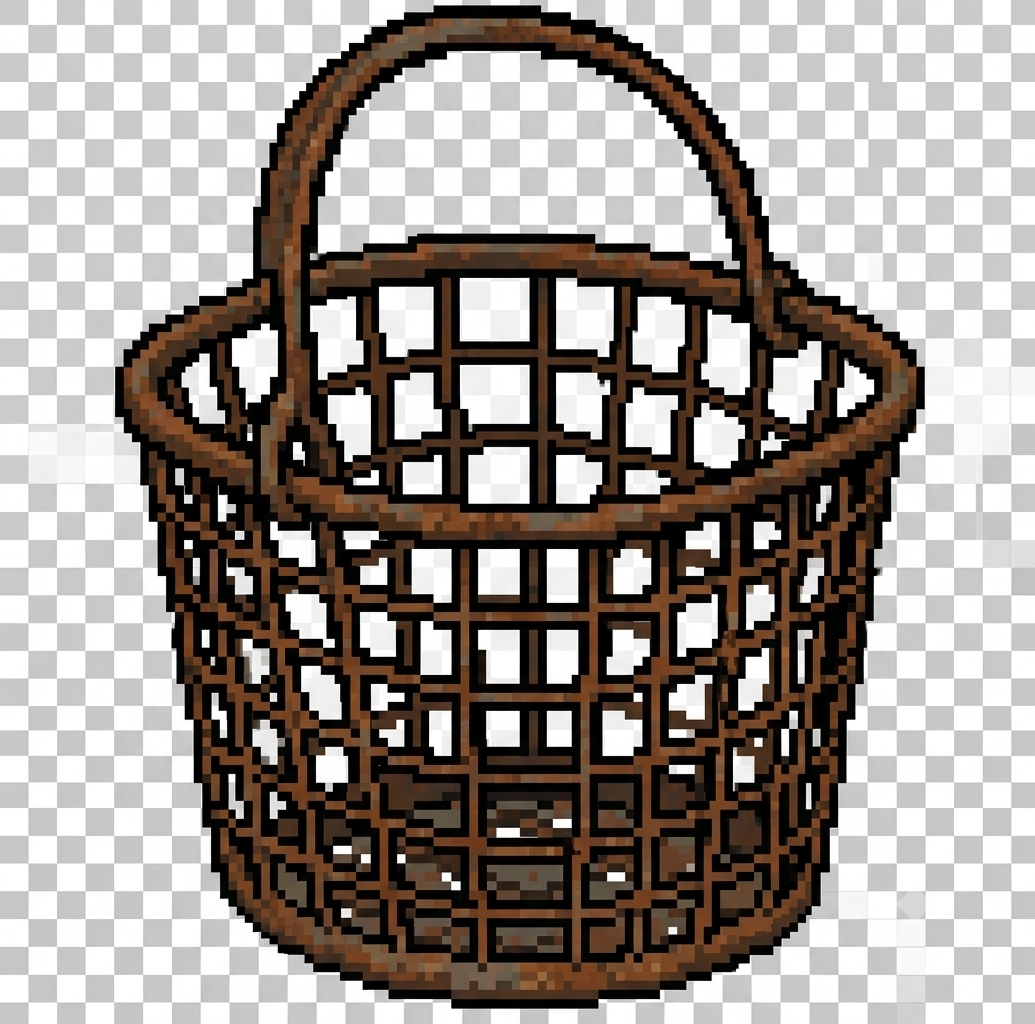
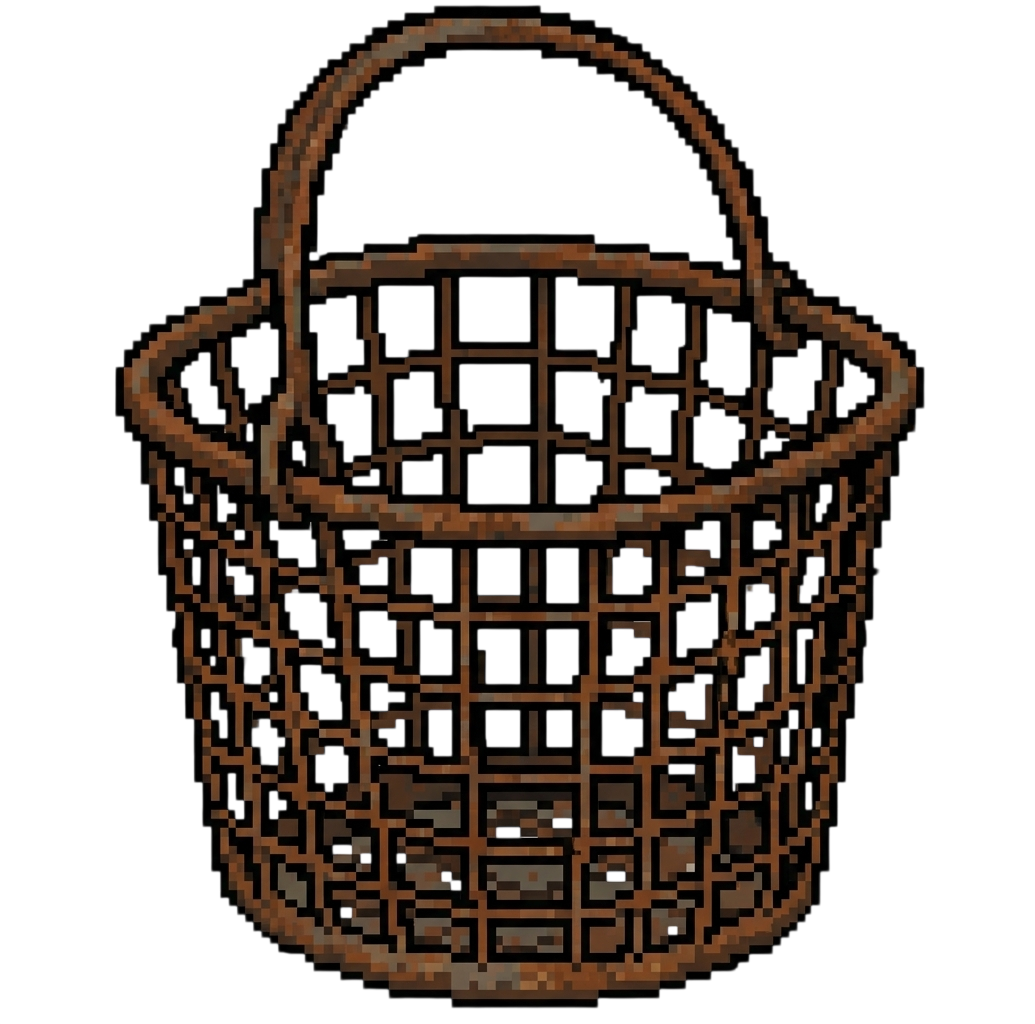
feat: 3 latas

diff --git a/minigames/cucaracha.py b/minigames/cucaracha.py
@@ -1,0 +1,205 @@
+import math
+import random
+import pyray as pr
+
+
+class CucarachaMiniGame:
+    WIN_COUNT      = 3
+    LIVES          = 2
+    BASE_W, BASE_H = 1392, 768
+    SLOTS          = [(473, 387), (695, 385), (920, 385)]
+    HIT_RADIUS     = 65
+    CAN_W, CAN_H   = 150, 157
+    CUCA_W, CUCA_H = 95, 110
+    FX_W, FX_H     = 120, 117
+    REVEAL_TIME    = 1.5
+    RESULT_TIME    = 1.5
+    SWAP_DUR       = 0.22
+    LIFT           = 70    # px levantar lata al revelar
+    ARC_LIFT       = 50    # px arco durante swap
+
+    def __init__(self, textures: dict) -> None:
+        self._tex   = textures
+        self._found = 0
+        self._lives = self.LIVES
+        self._round = 0
+        self._won   = False
+        self._done  = False
+        self._start_round()
+
+    # ------------------------------------------------------------------ helpers
+
+    def _start_round(self) -> None:
+        self._can_slot     = [0, 1, 2]            # can i ocupa slot can_slot[i]
+        self._cuca_can     = random.randint(0, 2)
+        self._cuca_variant = random.randint(0, 2)
+        self._phase        = "reveal"
+        self._timer        = 0.0
+        # cola de swaps pendientes: (can_a, can_b)
+        self._swaps        = self._build_swaps()
+        self._swap_t       = 0.0
+        self._swap_from    = None   # (slot_a, slot_b) origen de la animación
+        self._guess_slot   = None   # slot clickeado en result
+        self._guess_ok     = False
+
+    def _build_swaps(self) -> list:
+        n = 6 + self._round * 3
+        swaps = []
+        for _ in range(n):
+            a, b = random.sample((0, 1, 2), 2)
+            swaps.append((a, b))
+        return swaps
+
+    def _slot_px(self, slot: int, sw: int, sh: int) -> tuple:
+        cx, cy = self.SLOTS[slot]
+        return cx / self.BASE_W * sw, cy / self.BASE_H * sh
+
+    def _can_pos(self, can: int, sw: int, sh: int) -> tuple:
+        """Posición pixel (cx, cy) de la lata, interpolada si está en swap."""
+        slot = self._can_slot[can]
+        x, y = self._slot_px(slot, sw, sh)
+        if self._phase == "shuffle" and self._swap_from is not None:
+            ca, cb = self._swaps[0]
+            if can in (ca, cb):
+                t = min(1.0, self._swap_t / self.SWAP_DUR)
+                fa, fb = self._swap_from
+                src = fa if can == ca else fb
+                dst = fb if can == ca else fa
+                sx, sy = self._slot_px(src, sw, sh)
+                dx, dy = self._slot_px(dst, sw, sh)
+                x = sx + (dx - sx) * t
+                y = sy + (dy - sy) * t - math.sin(t * math.pi) * self.ARC_LIFT * sh / self.BASE_H
+        return x, y
+
+    def _blit(self, tex, cx, cy, w, h, sw, sh) -> None:
+        rw = w * sw / self.BASE_W
+        rh = h * sh / self.BASE_H
+        pr.draw_texture_pro(
+            tex,
+            pr.Rectangle(0, 0, tex.width, tex.height),
+            pr.Rectangle(cx - rw / 2, cy - rh / 2, rw, rh),
+            pr.Vector2(0, 0), 0.0, pr.WHITE,
+        )
+
+    # ------------------------------------------------------------------ protocol
+
+    def update(self, dt: float) -> None:
+        if self._done:
+            return
+        self._timer += dt
+
+        if self._phase == "reveal":
+            if self._timer >= self.REVEAL_TIME:
+                self._phase  = "shuffle"
+                self._timer  = 0.0
+                self._begin_next_swap()
+
+        elif self._phase == "shuffle":
+            self._swap_t += dt
+            if self._swap_t >= self.SWAP_DUR:
+                ca, cb = self._swaps.pop(0)
+                self._can_slot[ca], self._can_slot[cb] = self._can_slot[cb], self._can_slot[ca]
+                if self._swaps:
+                    self._begin_next_swap()
+                else:
+                    self._phase = "guess"
+                    self._timer = 0.0
+
+        elif self._phase == "guess":
+            if pr.is_mouse_button_pressed(pr.MOUSE_BUTTON_LEFT):
+                mp = pr.get_mouse_position()
+                sw, sh = pr.get_screen_width(), pr.get_screen_height()
+                slot = self._slot_at(mp, sw, sh)
+                if slot is not None:
+                    self._resolve_guess(slot)
+
+        elif self._phase == "result":
+            if self._timer >= self.RESULT_TIME:
+                if self._found >= self.WIN_COUNT:
+                    self._won, self._done = True, True
+                elif self._lives <= 0:
+                    self._won, self._done = False, True
+                else:
+                    self._round += 1
+                    self._start_round()
+
+    def _begin_next_swap(self) -> None:
+        self._swap_t    = 0.0
+        ca, cb          = self._swaps[0]
+        self._swap_from = (self._can_slot[ca], self._can_slot[cb])
+
+    def _slot_at(self, mp, sw: int, sh: int):
+        r = self.HIT_RADIUS * sw / self.BASE_W
+        for slot in range(3):
+            sx, sy = self._slot_px(slot, sw, sh)
+            if (mp.x - sx) ** 2 + (mp.y - sy) ** 2 <= r * r:
+                return slot
+        return None
+
+    def _resolve_guess(self, slot: int) -> None:
+        cuca_slot = self._can_slot[self._cuca_can]
+        self._guess_slot = slot
+        self._guess_ok   = (slot == cuca_slot)
+        if self._guess_ok:
+            self._found += 1
+        else:
+            self._lives -= 1
+        self._phase = "result"
+        self._timer = 0.0
+
+    def draw(self, sw: int, sh: int) -> None:
+        bg = self._tex["escenario"]
+        pr.draw_texture_pro(
+            bg,
+            pr.Rectangle(0, 0, bg.width, bg.height),
+            pr.Rectangle(0, 0, sw, sh),
+            pr.Vector2(0, 0), 0.0, pr.WHITE,
+        )
+
+        cuca_slot = self._can_slot[self._cuca_can]
+
+        # en reveal y result siempre se levanta la lata de la cucaracha
+        # (en result revela donde estaba; si ademas fallo, X sobre la clickeada)
+        lifted_slot = cuca_slot if self._phase in ("reveal", "result") else None
+
+        # dibujar cucaracha primero (debajo de las latas)
+        if self._phase in ("reveal", "result"):
+            cx, cy = self._slot_px(cuca_slot, sw, sh)
+            cuca_tex = self._tex["cucarachas"][self._cuca_variant]
+            self._blit(cuca_tex, cx, cy + 10 * sh / self.BASE_H,
+                       self.CUCA_W, self.CUCA_H, sw, sh)
+
+        # latas (orden por slot para z razonable)
+        cans = sorted(range(3), key=lambda c: self._can_slot[c])
+        moving = self._phase == "shuffle"
+        for can in cans:
+            cx, cy = self._can_pos(can, sw, sh)
+            slot   = self._can_slot[can]
+            lift   = 0.0
+            if lifted_slot is not None and slot == lifted_slot:
+                lift = self.LIFT * sh / self.BASE_H
+            tex = self._tex["lata_mov"] if moving else self._tex["lata"]
+            self._blit(tex, cx, cy - lift, self.CAN_W, self.CAN_H, sw, sh)
+
+        # feedback acierto/fallo en result
+        if self._phase == "result" and self._guess_slot is not None:
+            gx, gy = self._slot_px(self._guess_slot, sw, sh)
+            fx_tex = self._tex["destello"] if self._guess_ok else self._tex["x"]
+            self._blit(fx_tex, gx, gy - self.LIFT * sh / self.BASE_H,
+                       self.FX_W, self.FX_H, sw, sh)
+
+        # hud
+        hud = f"Cucarachas {self._found}/{self.WIN_COUNT}    Vidas: {self._lives}"
+        pr.draw_text(hud, (sw - pr.measure_text(hud, 26)) // 2, 16, 26, pr.RAYWHITE)
+
+        if self._phase == "guess":
+            hint = "Cual lata esconde la cucaracha? Click!"
+            pr.draw_text(hint, (sw - pr.measure_text(hint, 22)) // 2, 52, 22, pr.GOLD)
+
+    @property
+    def is_complete(self) -> bool:
+        return self._done
+
+    @property
+    def passed(self) -> bool:
+        return self._won

diff --git a/main.py b/main.py
@@ -5,7 +5,7 @@ from state import GameState, GamePhase
 from graph import NODES, EDGES, dijkstra, get_adjacent
 from renderer.graph_renderer import draw_graph
 from renderer.ui_renderer    import draw_menu, draw_win_screen, draw_hud, draw_casa_screen, draw_selector_screen
-from minigames                import get_random_minigame, get_minigame_by_name, set_maze_assets, set_basura_assets, set_memoria_assets, set_recolector_assets
+from minigames                import get_random_minigame, get_minigame_by_name, set_maze_assets, set_basura_assets, set_memoria_assets, set_recolector_assets, set_cucaracha_assets
 
 
 def _new_round(state: GameState) -> None:
@@ -99,6 +99,17 @@ def main() -> None:
         "valioso":   [pr.load_texture(f"{_rbase}valioso_{i}.png") for i in range(1, 4)],
     }
     set_recolector_assets(recolector_textures)
+
+    _cbase = "images/minigame_cucaracha/"
+    cucaracha_textures = {
+        "escenario":  pr.load_texture(f"{_cbase}escenario.png"),
+        "lata":       pr.load_texture(f"{_cbase}lata.png"),
+        "lata_mov":   pr.load_texture(f"{_cbase}lata_moviendose.png"),
+        "cucarachas": [pr.load_texture(f"{_cbase}cucaracha_{i}.png") for i in (1, 2, 3)],
+        "destello":   pr.load_texture(f"{_cbase}destello.png"),
+        "x":          pr.load_texture(f"{_cbase}X.png"),
+    }
+    set_cucaracha_assets(cucaracha_textures)
 
     state = GameState()
 
@@ -216,6 +227,13 @@ def main() -> None:
         pr.unload_texture(tex)
     for tex in recolector_textures["valioso"]:
         pr.unload_texture(tex)
+    pr.unload_texture(cucaracha_textures["escenario"])
+    pr.unload_texture(cucaracha_textures["lata"])
+    pr.unload_texture(cucaracha_textures["lata_mov"])
+    for tex in cucaracha_textures["cucarachas"]:
+        pr.unload_texture(tex)
+    pr.unload_texture(cucaracha_textures["destello"])
+    pr.unload_texture(cucaracha_textures["x"])
     pr.close_window()
 
 

diff --git a/minigames/__init__.py b/minigames/__init__.py
@@ -7,6 +7,7 @@ _maze_assets:       dict | None = None
 _basura_assets:     dict | None = None
 _memoria_assets:    dict | None = None
 _recolector_assets: dict | None = None
+_cucaracha_assets:  dict | None = None
 
 
 def set_maze_assets(assets: dict) -> None:
@@ -29,11 +30,17 @@ def set_recolector_assets(assets: dict) -> None:
     _recolector_assets = assets
 
 
+def set_cucaracha_assets(assets: dict) -> None:
+    global _cucaracha_assets
+    _cucaracha_assets = assets
+
+
 def get_random_minigame() -> Minigame:
     from .maze       import MazeMiniGame
     from .basura     import BasuraMiniGame
     from .memoria    import MemoryMiniGame
     from .recolector import RecolectorMiniGame
+    from .cucaracha  import CucarachaMiniGame
     options: list = [CollectDotMinigame, SurviveTimerMinigame]
     if _maze_assets is not None:
         options.append(lambda: MazeMiniGame(**_maze_assets))
@@ -43,6 +50,8 @@ def get_random_minigame() -> Minigame:
         options.append(lambda: MemoryMiniGame(_memoria_assets))
     if _recolector_assets is not None:
         options.append(lambda: RecolectorMiniGame(_recolector_assets))
+    if _cucaracha_assets is not None:
+        options.append(lambda: CucarachaMiniGame(_cucaracha_assets))
     return random.choice(options)()
 
 
@@ -51,6 +60,7 @@ def get_minigame_by_name(name: str) -> Minigame:
     from .basura     import BasuraMiniGame
     from .memoria    import MemoryMiniGame
     from .recolector import RecolectorMiniGame
+    from .cucaracha  import CucarachaMiniGame
     match name:
         case "maze":
             return MazeMiniGame(**_maze_assets)
@@ -64,8 +74,10 @@ def get_minigame_by_name(name: str) -> Minigame:
             return MemoryMiniGame(_memoria_assets)
         case "recolector":
             return RecolectorMiniGame(_recolector_assets)
+        case "cucaracha":
+            return CucarachaMiniGame(_cucaracha_assets)
         case _:
             raise ValueError(f"Unknown minigame: {name}")
 
 
-__all__ = ["Minigame", "get_random_minigame", "set_maze_assets", "set_basura_assets", "set_memoria_assets", "set_recolector_assets", "get_minigame_by_name"]
+__all__ = ["Minigame", "get_random_minigame", "set_maze_assets", "set_basura_assets", "set_memoria_assets", "set_recolector_assets", "set_cucaracha_assets", "get_minigame_by_name"]

diff --git a/renderer/ui_renderer.py b/renderer/ui_renderer.py
@@ -54,6 +54,7 @@ def draw_selector_screen(sw: int, sh: int) -> str | None:
         ("timer",   "Sobrevive"),
         ("memoria",    "Memoria"),
         ("recolector", "Recolector"),
+        ("cucaracha",  "Las 3 Latas"),
     ]
 
     btn_w, btn_h, gap = 340, 65, 20